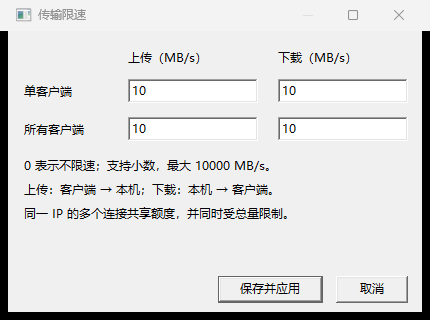
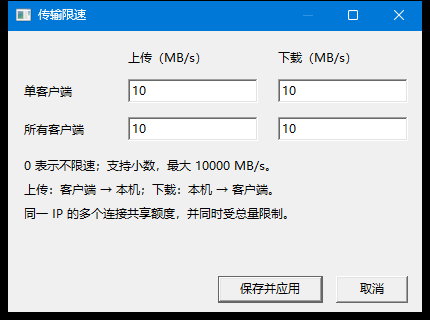
docs: 匿名化文档截图并更新发版示例

Changed region(s): [[0.0, 0.0, 1.0, 0.0938]]

diff --git a/internal/desktop/bandwidth_screenshot_test.go b/internal/desktop/bandwidth_screenshot_test.go
@@ -12,8 +12,6 @@ import (
 	"time"
 	"unsafe"
 
-	"Canyou/internal/netinfo"
-
 	"github.com/tadvi/winc/w32"
 )
 
@@ -33,10 +31,19 @@ func TestBandwidthDesktopScreenshots(t *testing.T) {
 	addWindowStyle(ctrl.mainWindow.Handle(), w32.WS_CLIPCHILDREN)
 	installFormBackdrop(ctrl.mainWindow)
 	applyWindowIcon(ctrl.mainWindow)
-	ctrl.dirEdit.SetText(ctrl.selectedDir)
-	ctrl.uploadEdit.SetText(ctrl.uploadDir)
-	if ips, err := netinfo.ScanLANIPv4(); err == nil && len(ips) > 0 {
-		ctrl.applyIPAddresses(ips)
+	// 截图仅展示匿名演示路径；实际服务仍使用隔离临时目录，不修改用户配置。
+	// 保留测试夹具的回环 IP，不扫描或展示用户的真实网卡信息。
+	const demoViewDir = `D:\CanyouDemo\共享文件`
+	const demoUploadDir = `D:\CanyouDemo\接收文件`
+	ctrl.dirEdit.SetText(demoViewDir)
+	ctrl.uploadEdit.SetText(demoUploadDir)
+	captureMain := func(name string) {
+		t.Helper()
+		if ctrl.dirEdit.Text() != demoViewDir || ctrl.uploadEdit.Text() != demoUploadDir || ctrl.currentIP() != "127.0.0.1" {
+			t.Fatal("截图中出现了非匿名的目录或网卡信息")
+		}
+		pumpDesktopMessages()
+		captureDesktopWindow(t, ctrl.mainWindow.Handle(), filepath.Join(output, name))
 	}
 	listener, err := net.Listen("tcp", "127.0.0.1:0")
 	if err != nil {
@@ -49,14 +56,12 @@ func TestBandwidthDesktopScreenshots(t *testing.T) {
 	ctrl.onApplyGatePassword(nil)
 	centerOnCursorMonitor(ctrl.mainWindow)
 	ctrl.mainWindow.Show()
-	pumpDesktopMessages()
-	captureDesktopWindow(t, ctrl.mainWindow.Handle(), filepath.Join(output, "server-stopped.png"))
+	captureMain("server-stopped.png")
 	ctrl.startService()
 	if !ctrl.fileServer.IsRunning() {
 		t.Fatal("隔离服务未启动")
 	}
-	pumpDesktopMessages()
-	captureDesktopWindow(t, ctrl.mainWindow.Handle(), filepath.Join(output, "server.png"))
+	captureMain("server.png")
 	dialog := ctrl.newBandwidthDialog()
 	defer dialog.form.Close()
 	for _, edit := range dialog.edits {
